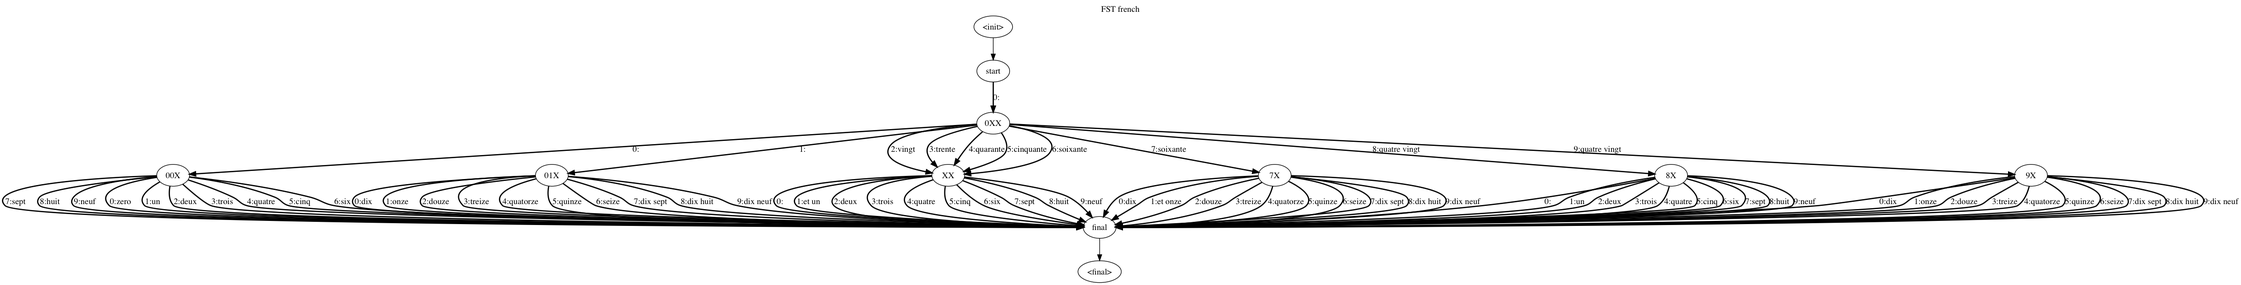
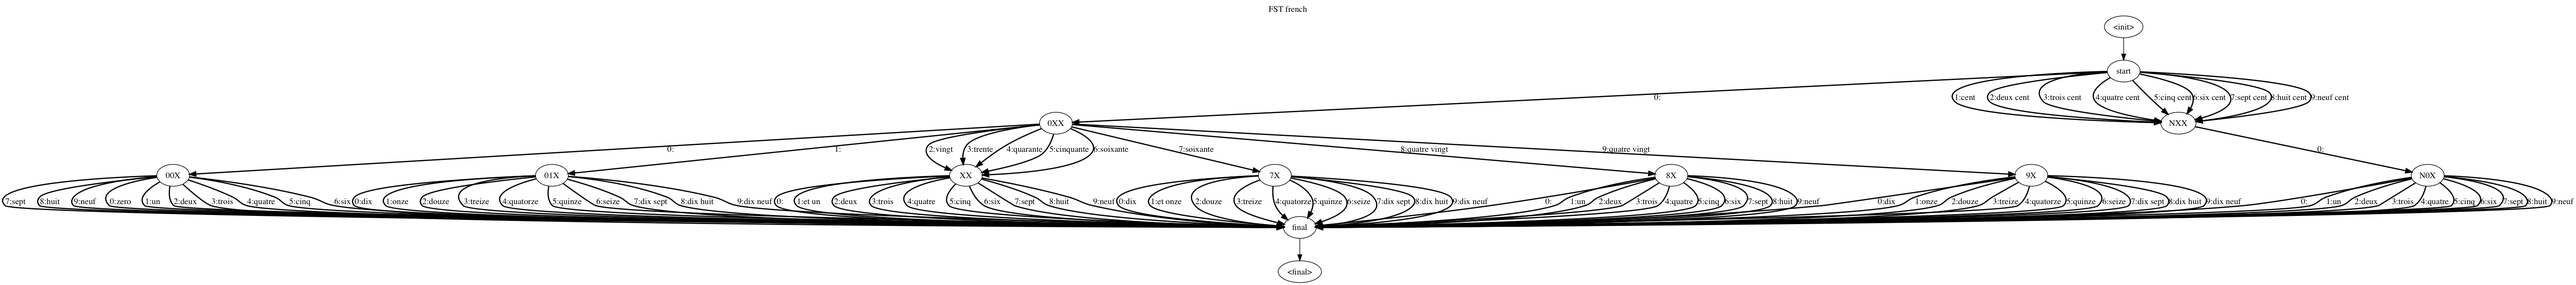
100-109 working

diff --git a/hw2.starter code/french_count.py b/hw2.starter code/french_count.py
@@ -122,6 +122,8 @@ def french_count():
     f.add_state('7X')
     f.add_state('8X')
     f.add_state('9X')
+    f.add_state('NXX')
+    f.add_state('N0X')
 
     f.initial_state = 'start'
     f.set_final('final')
@@ -152,7 +154,7 @@ def french_count():
         f.add_arc('XX', 'final', [str(ii)], [kFRENCH_TRANS[ii]])
 
     # 70s
-    f.add_arc('0XX', '7X', ['7'], [kFRENCH_TRANS[60]])
+    f.add_arc('0XX', '7X', [str(7)], [kFRENCH_TRANS[60]])
     for ii in xrange(10):
         if ii == 0:
             f.add_arc('7X', 'final', [str(ii)], [kFRENCH_TRANS[10]])
@@ -164,7 +166,7 @@ def french_count():
             f.add_arc('7X', 'final', [str(ii)], [kFRENCH_TRANS[10],kFRENCH_TRANS[ii]])
 
     # 80s
-    f.add_arc('0XX', '8X', ['8'], [kFRENCH_TRANS[4],kFRENCH_TRANS[20]])
+    f.add_arc('0XX', '8X', [str(8)], [kFRENCH_TRANS[4],kFRENCH_TRANS[20]])
     for ii in xrange(10):
         if ii == 0:
             f.add_arc('8X', 'final', [str(ii)], ())
@@ -172,12 +174,26 @@ def french_count():
             f.add_arc('8X', 'final', [str(ii)], [kFRENCH_TRANS[ii]])
 
     # 90s
-    f.add_arc('0XX', '9X', ['9'], [kFRENCH_TRANS[4],kFRENCH_TRANS[20]])
+    f.add_arc('0XX', '9X', [str(9)], [kFRENCH_TRANS[4],kFRENCH_TRANS[20]])
     for ii in xrange(10):
         if ii < 7:
             f.add_arc('9X', 'final', [str(ii)], [kFRENCH_TRANS[ii+10]])
         else:
             f.add_arc('9X', 'final', [str(ii)], [kFRENCH_TRANS[10],kFRENCH_TRANS[ii]])
+
+    # 100-109
+    for ii in xrange(1,10):
+        if ii == 1:
+            f.add_arc('start', 'NXX', [str(ii)], [kFRENCH_TRANS[100]])
+        else:
+            f.add_arc('start', 'NXX', [str(ii)], [kFRENCH_TRANS[ii],kFRENCH_TRANS[100]])
+    f.add_arc('NXX', 'N0X', [str(0)], ())
+    for ii in xrange(10):
+        if ii == 0:
+            f.add_arc('N0X', 'final', [str(0)], ())
+        else:
+            f.add_arc('N0X', 'final', [str(ii)], [kFRENCH_TRANS[ii]])
+
 
     return f
 
@@ -187,7 +203,7 @@ def french_count():
 
 # french_count().transduce(prepare_input(80))
 # trace(french_count(),prepare_input(80))
-# graphviz_writer(french_count(),'french_count.dot')
+graphviz_writer(french_count(),'french_count.dot')
 
 
 if __name__ == '__main__':
